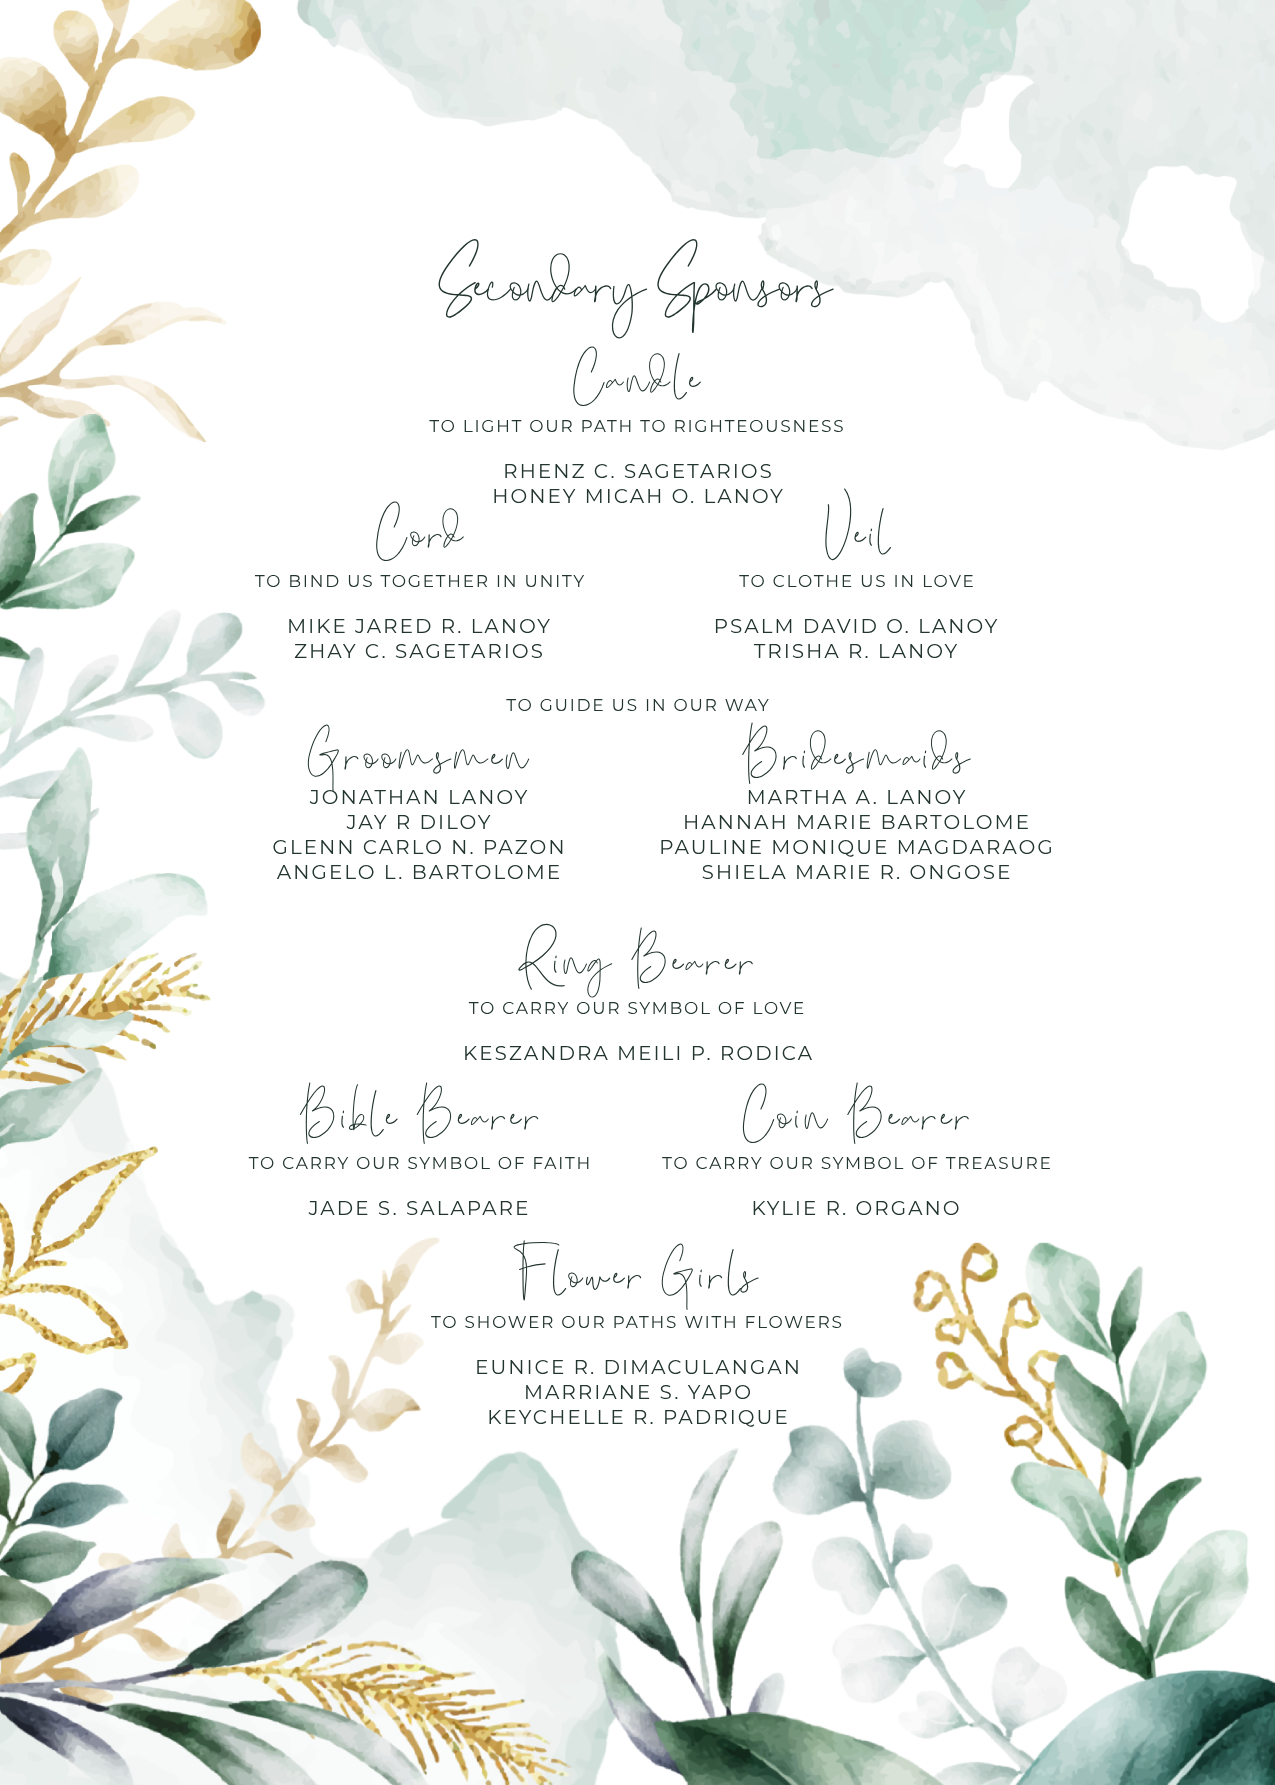
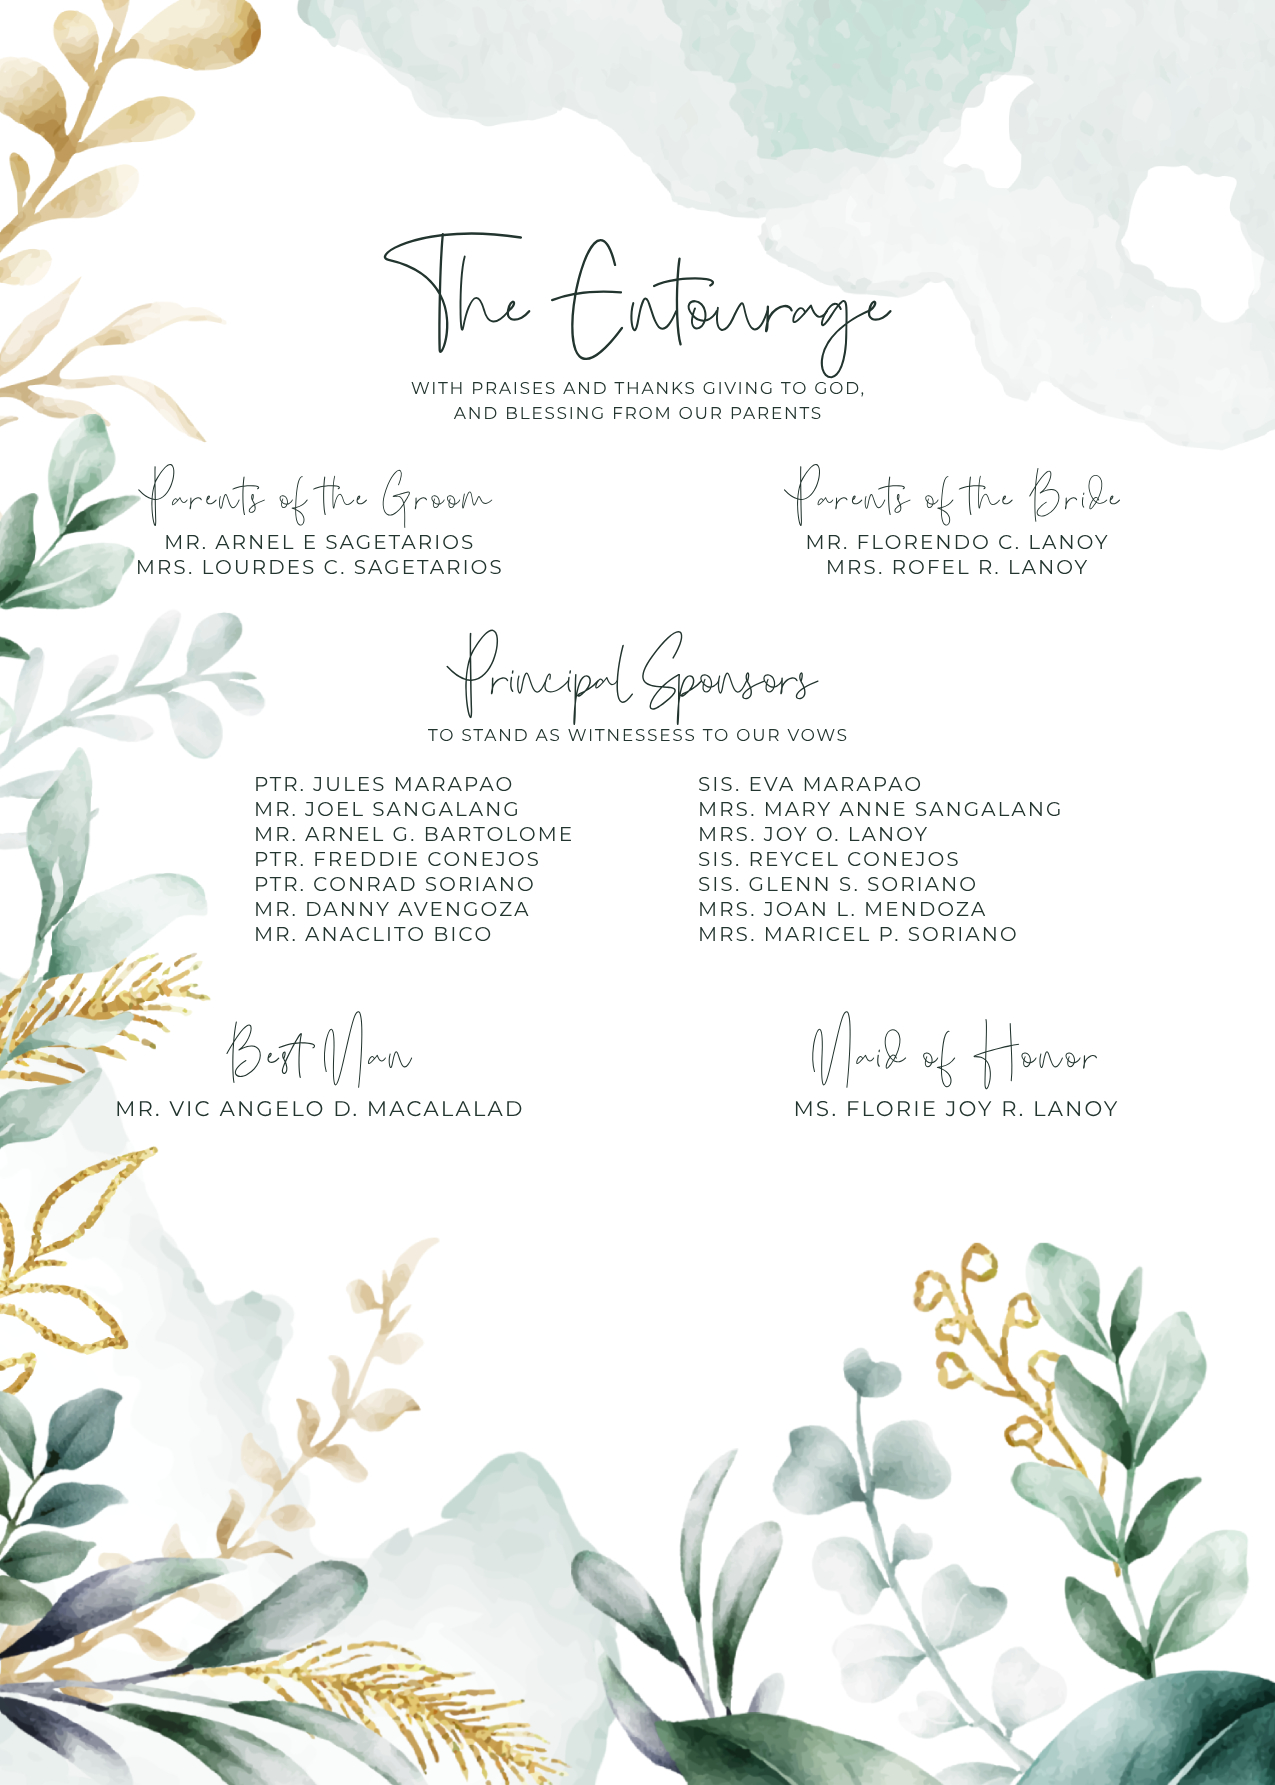
fixes

diff --git a/index.html b/index.html
@@ -18,9 +18,6 @@
 
   <div id="splash-screen">
   <div class="splash-content">
-    <!-- <h1 class="splash-title">Welcome to Our Event</h1> -->
-    <!-- Optional logo or icon -->
-    <!-- <img src="logo.png" alt="Logo" class="splash-logo" /> -->
   </div>
 </div>
 <div id="main" style="display: none;">
